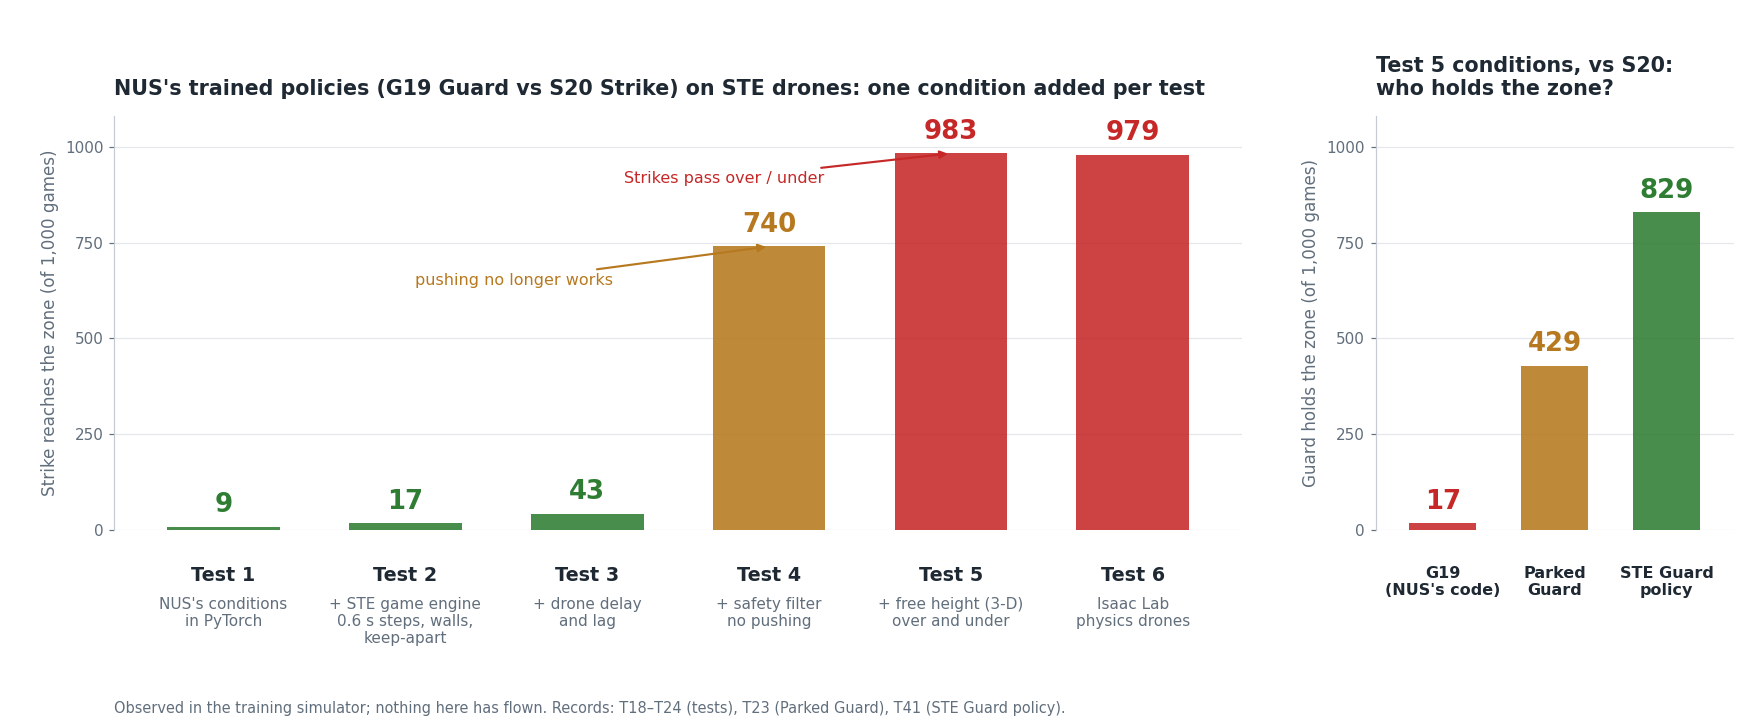
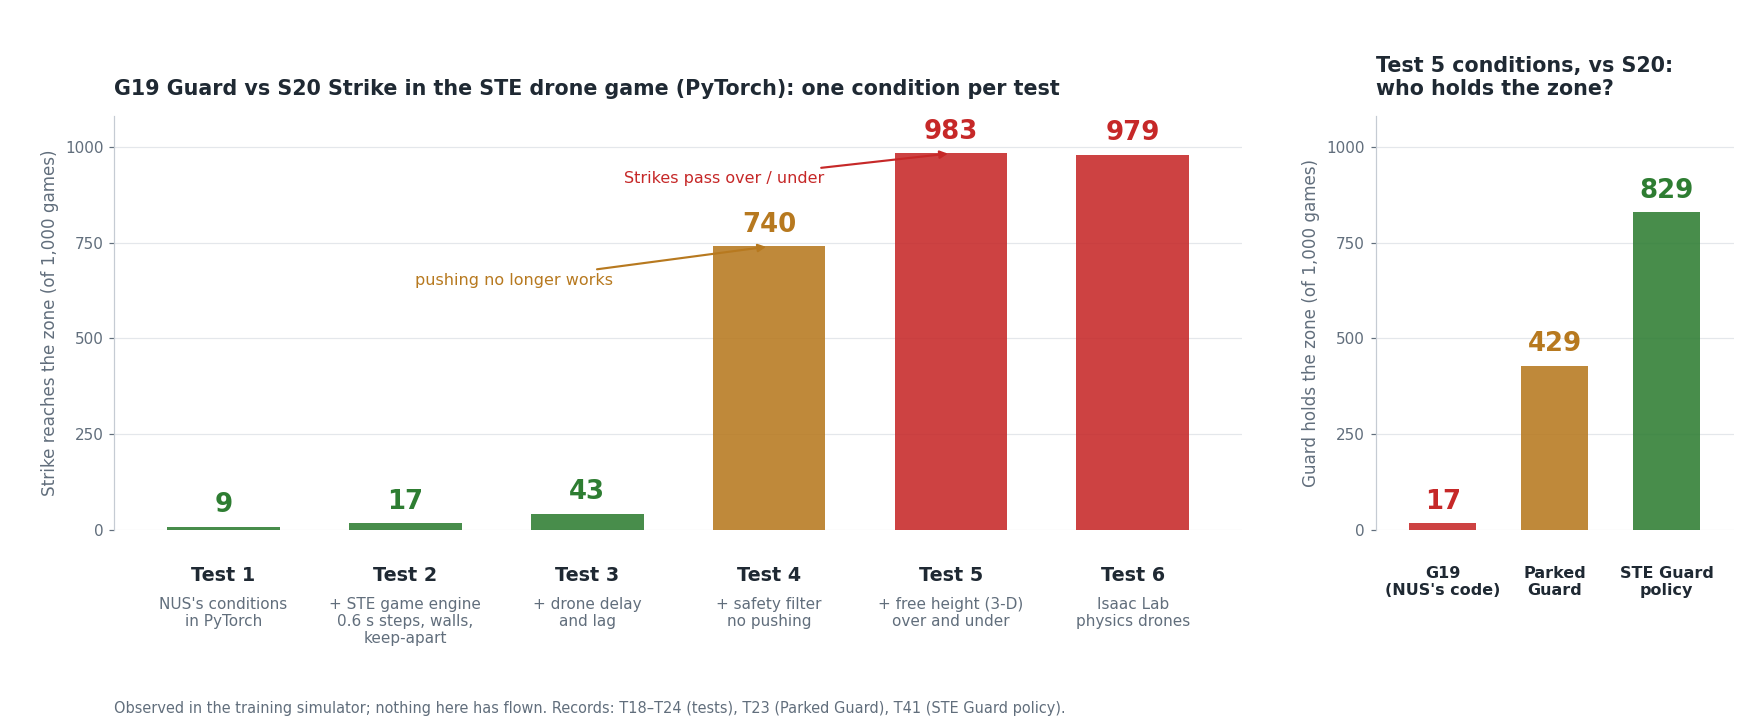
svg_training README: section 4 renamed to 'Testing NUS's policies in the STE drone game (simulation) in PyTorch'
Matching wording in the one-line summary, the docs map and the overview figure title.

Changed region(s): [[0.0625, 0.0909, 0.6875, 0.1515]]

diff --git a/svg_training/scripts/make_overview_figures.py b/svg_training/scripts/make_overview_figures.py
@@ -152,7 +152,7 @@ def tests() -> Path:
     ax.spines["left"].set_color("#c5cbd3")
     ax.grid(axis="y", color="#e4e7eb", zorder=0)
     ax.set_ylabel("Strike reaches the zone (of 1,000 games)", fontsize=11, color=MUTED)
-    ax.set_title("NUS's trained policies (G19 Guard vs S20 Strike) on STE drones: one condition added per test",
+    ax.set_title("G19 Guard vs S20 Strike in the STE drone game (PyTorch): one condition per test",
                  fontsize=13.5, weight="bold", loc="left", pad=14)
     ax.annotate("pushing no longer works", xy=(3, 740), xytext=(1.6, 640), fontsize=10.5, color=AMBER,
                 arrowprops=dict(arrowstyle="-|>", color=AMBER, lw=1.4), ha="center")

diff --git a/svg_training/README.md b/svg_training/README.md
@@ -47,7 +47,7 @@ each Guard holds the zone:
      then train with it in STE conditions.
 6. **Next:** test the trained Guard in **Isaac Lab** (5.3), then the AirStack hand-over and a flight plan, with CMU.
 
-**In one line:** trained in NUS's game, tested on STE drones (NUS's policies failed), retrained in STE drone conditions
+**In one line:** trained in NUS's game, tested in the STE drone game in PyTorch (NUS's policies failed), retrained in STE drone conditions
 (the STE Guard policy works), Isaac Lab check next.
 
 ### NUS's conditions vs STE drone conditions
@@ -171,7 +171,7 @@ full video. Terms, one line each (all in the [glossary](docs/GLOSSARY.md)):
 - *Test 5 conditions*: the hangar game of Test 5 (STE drone model, safety filter on every pair, free height), the game
   the STE Guard policy was trained in.
 
-## 4. Testing NUS's policies on STE drones
+## 4. Testing NUS's policies in the STE drone game (simulation) in PyTorch
 
 Phase 4 scored the converted policies (G19, S20, P3G, P3S: trained by STE with NUS's code), frozen, in six tests; each test adds one real-drone condition (Tests 2 and 4
 change two things at once; [test results](docs/WHAT_WE_FOUND.md#3-six-tests-towards-ste-drones)). 1,000 games per

diff --git a/svg_training/docs/README.md b/svg_training/docs/README.md
@@ -16,7 +16,7 @@ this repository. Every page carries one of four labels on its first line:
 
 | Page | What it holds |
 |---|---|
-| [../README.md](../README.md) | the front page: overview and policies, porting NUS's code, the game (NUS 2-D game vs STE drone set-up), testing NUS's policies on STE drones, why performance drops, training in STE conditions, next steps and the five questions to NUS, run it yourself |
+| [../README.md](../README.md) | the front page: overview and policies, porting NUS's code, the game (NUS 2-D game vs STE drone set-up), testing NUS's policies in the STE drone game (simulation) in PyTorch, why performance drops, training in STE conditions, next steps and the five questions to NUS, run it yourself |
 | [WHAT_WE_FOUND.md](WHAT_WE_FOUND.md) | what we found: every result of the NUS port, caveats beside the numbers (was `NUS_RESULTS.md`) |
 | [RUN_IT_YOURSELF.md](RUN_IT_YOURSELF.md) | how to run it yourself: six levels, from clips to repeating the six tests (was `TRY_IT.md`) |
 | [TRAIN_A_GUARD.md](TRAIN_A_GUARD.md) | training recipe: the step-by-step recipe behind the STE Guard policy (pilot P1b run 4) |
